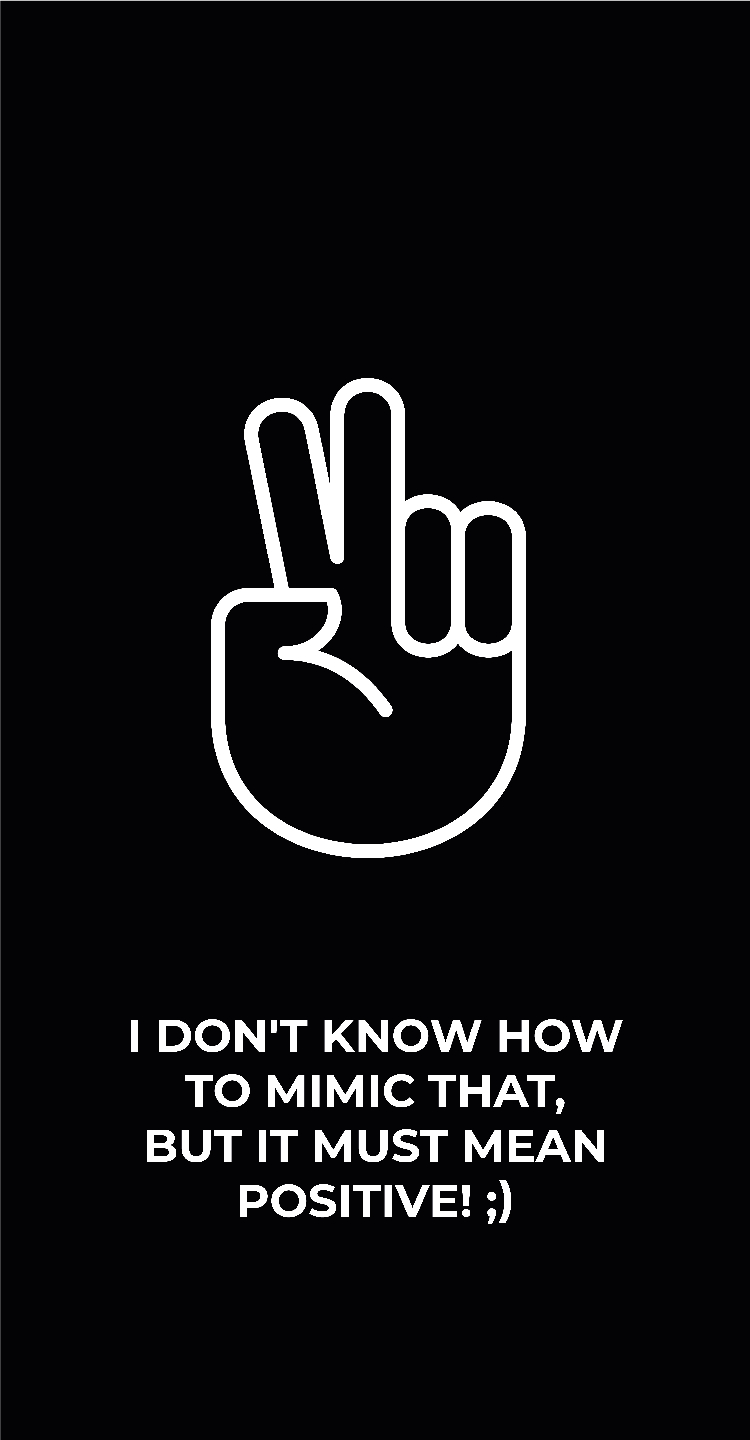
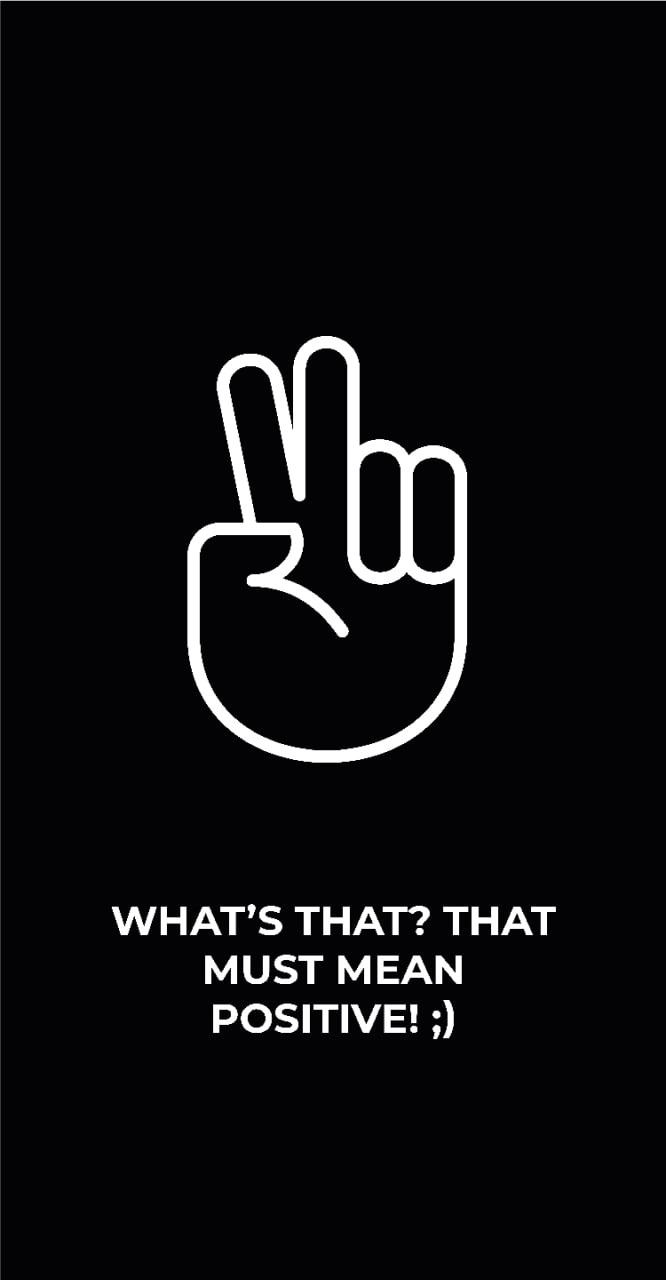
FIX: Adjusted min_detection_confidence. Added new victory pictogram

Changed region(s): [[0.1802, 0.6875, 0.8408, 0.8438]]

diff --git a/mediapipe_models/hand_gesture_recognizer.py b/mediapipe_models/hand_gesture_recognizer.py
@@ -49,7 +49,7 @@ class GestureDetector:
 
         # Initialize MediaPipe Hands for skeleton tracking
         self.mp_hands = mp.solutions.hands
-        self.hands = self.mp_hands.Hands(min_detection_confidence=0.75, min_tracking_confidence=0.6)
+        self.hands = self.mp_hands.Hands(min_detection_confidence=0.7, min_tracking_confidence=0.6)
 
         # A dictionary that loads images for gestures
         self.gesture_images = {
@@ -62,8 +62,6 @@ class GestureDetector:
             "None": cv2.imread("./pictograms/none.jpg", cv2.IMREAD_UNCHANGED),
             # Add more gestures and images as needed
         }
-
-        self.hands = self.mp_hands.Hands(min_detection_confidence=0.8, min_tracking_confidence=0.5)
 
         # Define callback function
         def result_callback(result, output_image, timestamp_ms):
@@ -232,7 +230,9 @@ class GestureDetector:
         gesture = self.gesture_result
         gesture_text = self.gesture_result.strip().lower()
         """Send socket message only if gesture has changed."""
-        if gesture and gesture.strip().lower() != "none" and ((self.last_gesture_sent == "Thumb_Down" and gesture == "Thumb_Up") or not self.doing_action):
+        if gesture and gesture.strip().lower() != "none" and ((self.last_gesture_sent == "Thumb_Down"
+                                                               and gesture == "Thumb_Up")
+                                                              or not self.doing_action):
             self.last_gesture_sent = gesture
             self.robot_client.send_message(gesture)
         elif gesture_text == "none" or gesture_text == "pointing_up" or gesture_text == "iloveyou":
@@ -260,8 +260,6 @@ class GestureDetector:
             # Draw hand skeleton if detected hand(s)
             if hand_results.multi_hand_landmarks:
                 self.draw_hand_skeleton(frame, hand_results.multi_hand_landmarks)
-            else:
-                print("No hand landmarks detected.")
 
             # Convert to MediaPipe Image format for gesture recognition
             mp_image = mp.Image(image_format=mp.ImageFormat.SRGB, data=frame_rgb)
@@ -272,8 +270,9 @@ class GestureDetector:
 
             current_time = time.time()
             x, y = 0, 0  # Top-left corner coordinates
+
             # Display detected gesture on the screen
-            if self.gesture_result and self.doing_action:
+            if self.gesture_result is not None and self.doing_action:
                 print(self.gesture_result)
                 gesture_image = self.gesture_images.get(self.gesture_result, None)
                 if gesture_image is not None:
